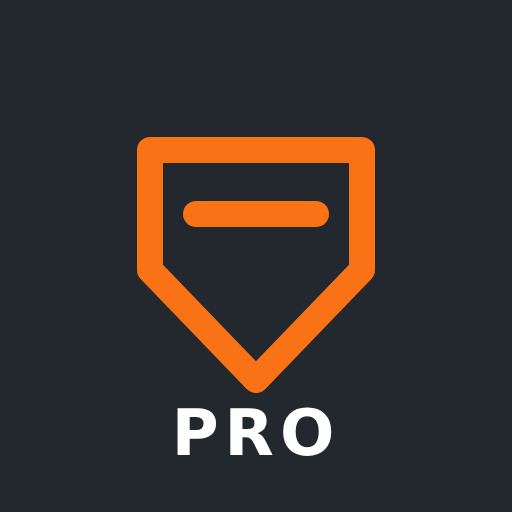
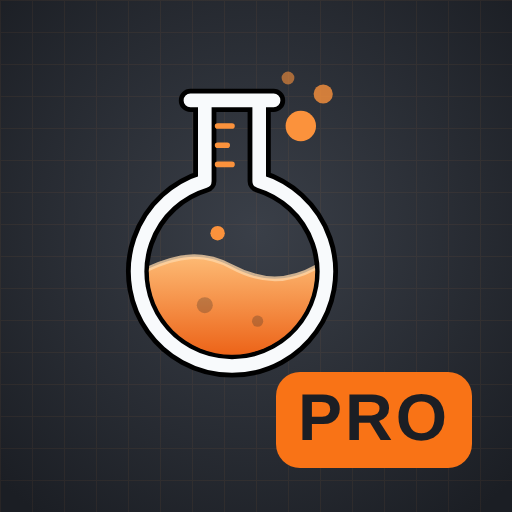
Version 10: neues App-Symbol (Kolben mit PRO) (#10)
Symbole für Homescreen (192/512), Apple (180) und eine eigene
Android-Fassung mit Sicherheitsrand (maskable). Browser-Tab zeigt das
Symbol jetzt auch.

Claude-Session: https://claude.ai/code/session_01PHNf8zyq4wdwEw9eWu2Ss8

Changed region(s): [[0.2188, 0.125, 0.9375, 0.9375]]

diff --git a/index.html b/index.html
@@ -5,6 +5,7 @@
 <meta name="viewport" content="width=device-width, initial-scale=1, viewport-fit=cover">
 <title>Lernlabor Pro</title>
 <link rel="manifest" href="manifest.webmanifest">
+<link rel="icon" type="image/png" sizes="192x192" href="icon-192.png">
 <link rel="apple-touch-icon" href="apple-touch-icon.png">
 <meta name="theme-color" content="#1f2937"><script>try{var m=localStorage.getItem("lernlabor-pro-ansicht")||"hell";if(m!=="geraet")document.documentElement.setAttribute("data-theme",m==="dunkel"?"dark":"light")}catch(e){document.documentElement.setAttribute("data-theme","light")}</script>
 <meta name="apple-mobile-web-app-capable" content="yes">
@@ -1049,7 +1050,7 @@ VIZ.arbg=()=>S.svg(560,200,bx(10,14,170,56,BL,['1. Instanz','Arbeitsgericht'])+S
  bx(10,100,170,56,GR,['Güteverhandlung','(Vorsitzender allein)'])+S.a(180,128,195,128)+bx(195,100,170,56,GR,['Kammertermin','mit 2 ehrenamtl. Richtern'])+S.a(365,128,380,128)+bx(380,100,170,56,GR,['Urteil','oder Vergleich'])+
  S.t(280,186,'1. Instanz: kein Anwaltszwang, jede Seite trägt ihre Anwaltskosten selbst (§ 12a ArbGG)',null,{sz:12,f:'var(--mute)'}),'Instanzen und Ablauf vor dem Arbeitsgericht');
 VIZ.mob=()=>S.svg(560,150,bx(10,40,120,56,YL,['Vorfall','dokumentieren'])+S.a(130,68,150,68)+bx(150,40,120,56,BL,['Beschwerde','§ 84, § 85 BetrVG'])+S.a(270,68,290,68)+bx(290,40,120,56,RD,['Arbeitgeber','handelt (§ 12 AGG)'])+S.a(410,68,430,68)+bx(430,40,120,56,GR,['Nachfassen,','Schutz (§ 16 AGG)'])+S.t(280,130,'Keine Nachteile wegen der Beschwerde',null,{sz:12,f:'var(--mute)'}),'Ablauf bei Belästigung oder Mobbing');
-const NEU='<h3>🆕 Version 9 (14.11.2026)</h3><ul><li>Antworten in Prüfungsaufgaben und „Im Betrieb“ bleiben auf diesem Gerät gespeichert. Aus „Im Betrieb“ führt „‹ Zurück zu Im Betrieb“ zurück.</li><li>Regler mit Formelzeichen. Reglerwerte bleiben erhalten, solange die App offen ist.</li><li>Neu im Menü Lernen unter „Nachschlagen“: Glossar und Formelsammlung.</li><li>Rechenaufgaben: nach einer falschen Antwort „Woran lag es?“ mit typischen Fehlern.</li><li>Einheiten auch in Zeichnungen und Formelbrüchen mit echtem Bruchstrich.</li><li>Schrittleiste zeigt, wo Du gerade bist. Größere Schrift in Zeichnungen am Handy, bessere Kontraste, Startseite mit dem nächsten Schritt zuerst.</li><li>Unter den Reglern stehen „Üben“, „Favorit“ und „Mehr“ in einer Zeile, vier Ergebnisse als zwei mal zwei Kacheln. Alle Texte im Blocksatz.</li></ul><h3>Version 8 (14.11.2026)</h3><ul><li>Bedienung wie im Lernlabor: Jede Ansicht hat eine eigene Adresse. „Zurück“ bleibt in der App, Neuladen öffnet dasselbe Thema, unter „Mehr“ gibt es „Teilen“ und „QR-Code“.</li><li>Wo Skizze und Regler-Zeichnung gleich waren (35 Themen), steht nur noch die bewegte Zeichnung.</li><li>Regler in einer Zeile, Ergebnisse als drei Kacheln nebeneinander.</li><li>Rechenaufgaben: „Antwort prüfen“ oder Enter, Rückfrage bei „1.250“, Hinweis, ob Dein Wert zu groß oder zu klein ist, „💡 Hilfe“ in Schritten, Lösungsweg nach dem zweiten Versuch.</li><li>Menüs „Lernen“ mit „Weiter mit …“, „Üben &amp; Prüfen“ und „Ich“ mit Lernstand, Meine Kurstermine, Tutorial und Sonstiges.</li><li>Startet hell, Dunkel wählbar unter Ich → Sonstiges. Größere Schrift in den Zeichnungen am Handy.</li></ul><h3>Version 7 (14.11.2026)</h3><ul><li>Fachliche Prüfung aller sechs Fachrichtungen: 26 Korrekturen.</li><li>Rechenaufgaben in Mechatronik und Logistik erkennen falsche Ergebnisse jetzt zuverlässig. Zwei Kostenaufgaben in der Organisation nehmen die richtige Lösung jetzt an.</li><li>Lichtvorhang: über 500 mm wird mit K = 1600 mm/s gerechnet. Kühlwasserpumpe mit gemessenen Leistungen statt dritter Potenz.</li><li>Chemie: Druckluftbehälter, pH-Wert, adiabate Verdichtung und Standardzustand präzisiert.</li><li>Kunststoff: Polyreaktionen, Alterung und Recycling ergänzt.</li><li>Themen mit Gesetzen und Normen zeigen den Rechtsstand.</li></ul><h3>Version 6 (14.11.2026)</h3><ul><li>Drei neue Fachrichtungen: Kunststoff &amp; Kautschuk, Mechatronik und Logistik, jeweils mit eigenen Technikthemen, Reglern mit Auftrag, Rechenaufgaben, Situationsaufgaben, Fachgespräch und fünf Aufgaben „Im Betrieb“.</li><li>Für alle: neues Thema „Rüsten verkürzen (SMED)“ in der Organisation.</li><li>Elektrotechnik: neue Regler zum Stromsignal 4 bis 20 mA und zum Performance Level.</li><li>Metall und Elektrotechnik: Hinweis auf die EU-Maschinenverordnung ab 20. Januar 2027.</li></ul><h3>Version 5 (14.11.2026)</h3><ul><li>Chemie: neues Gebiet „Thermodynamik“ mit zehn Themen, von den Gasgesetzen über Sieden und Kondensieren und die Reaktionswärme bis zur Wärmebilanz am Reaktor.</li><li>Neun neue Regler mit Auftrag und 25 neue Rechenaufgaben.</li></ul><h3>Version 4 (14.11.2026)</h3><ul><li>Bedienung wie im Lernlabor: „Thema wechseln“ mit zwei Wischleisten, vier Schritte in einer Zeile, „Üben“ am Schluss.</li><li>Regler mit Zahlenfeld zum Eintippen, Ergebnisse als Kacheln, Knöpfe „Üben“, „Favorit“ und „Mehr“.</li><li>Nachschlagen mit Wichtiges, Grundgleichungen, Verstehen und typische Fehler, Alle Werte und Meine Notiz.</li><li>Einheiten mit echtem Bruchstrich.</li></ul><h3>Version 3 (14.11.2026)</h3><ul><li>Drei Fachrichtungen: Metall, Elektrotechnik und Chemie. Du wählst Deine Fachrichtung auf der Startseite, der Lernstand wird je Fachrichtung getrennt gemerkt.</li><li>Je 14 neue Technikthemen für Elektrotechnik und Chemie, dazu Zusatzthemen in der Organisation.</li><li>Neu unter Prüfen: „Im Betrieb“ mit je fünf mehrstufigen Aufgaben, die Technik, Organisation und Führung verbinden.</li><li>Jedes Thema zeigt jetzt die Kästen Wichtiges, Gleichungen und Typische Fehlerquellen.</li></ul>';
+const NEU='<h3>🆕 Version 10 (14.11.2026)</h3><ul><li>Neues App-Symbol: der Kolben aus dem Lernlabor in Orange mit „PRO“. Auch im Browser-Tab.</li></ul><h3>Version 9 (14.11.2026)</h3><ul><li>Antworten in Prüfungsaufgaben und „Im Betrieb“ bleiben auf diesem Gerät gespeichert. Aus „Im Betrieb“ führt „‹ Zurück zu Im Betrieb“ zurück.</li><li>Regler mit Formelzeichen. Reglerwerte bleiben erhalten, solange die App offen ist.</li><li>Neu im Menü Lernen unter „Nachschlagen“: Glossar und Formelsammlung.</li><li>Rechenaufgaben: nach einer falschen Antwort „Woran lag es?“ mit typischen Fehlern.</li><li>Einheiten auch in Zeichnungen und Formelbrüchen mit echtem Bruchstrich.</li><li>Schrittleiste zeigt, wo Du gerade bist. Größere Schrift in Zeichnungen am Handy, bessere Kontraste, Startseite mit dem nächsten Schritt zuerst.</li><li>Unter den Reglern stehen „Üben“, „Favorit“ und „Mehr“ in einer Zeile, vier Ergebnisse als zwei mal zwei Kacheln. Alle Texte im Blocksatz.</li></ul><h3>Version 8 (14.11.2026)</h3><ul><li>Bedienung wie im Lernlabor: Jede Ansicht hat eine eigene Adresse. „Zurück“ bleibt in der App, Neuladen öffnet dasselbe Thema, unter „Mehr“ gibt es „Teilen“ und „QR-Code“.</li><li>Wo Skizze und Regler-Zeichnung gleich waren (35 Themen), steht nur noch die bewegte Zeichnung.</li><li>Regler in einer Zeile, Ergebnisse als drei Kacheln nebeneinander.</li><li>Rechenaufgaben: „Antwort prüfen“ oder Enter, Rückfrage bei „1.250“, Hinweis, ob Dein Wert zu groß oder zu klein ist, „💡 Hilfe“ in Schritten, Lösungsweg nach dem zweiten Versuch.</li><li>Menüs „Lernen“ mit „Weiter mit …“, „Üben &amp; Prüfen“ und „Ich“ mit Lernstand, Meine Kurstermine, Tutorial und Sonstiges.</li><li>Startet hell, Dunkel wählbar unter Ich → Sonstiges. Größere Schrift in den Zeichnungen am Handy.</li></ul><h3>Version 7 (14.11.2026)</h3><ul><li>Fachliche Prüfung aller sechs Fachrichtungen: 26 Korrekturen.</li><li>Rechenaufgaben in Mechatronik und Logistik erkennen falsche Ergebnisse jetzt zuverlässig. Zwei Kostenaufgaben in der Organisation nehmen die richtige Lösung jetzt an.</li><li>Lichtvorhang: über 500 mm wird mit K = 1600 mm/s gerechnet. Kühlwasserpumpe mit gemessenen Leistungen statt dritter Potenz.</li><li>Chemie: Druckluftbehälter, pH-Wert, adiabate Verdichtung und Standardzustand präzisiert.</li><li>Kunststoff: Polyreaktionen, Alterung und Recycling ergänzt.</li><li>Themen mit Gesetzen und Normen zeigen den Rechtsstand.</li></ul><h3>Version 6 (14.11.2026)</h3><ul><li>Drei neue Fachrichtungen: Kunststoff &amp; Kautschuk, Mechatronik und Logistik, jeweils mit eigenen Technikthemen, Reglern mit Auftrag, Rechenaufgaben, Situationsaufgaben, Fachgespräch und fünf Aufgaben „Im Betrieb“.</li><li>Für alle: neues Thema „Rüsten verkürzen (SMED)“ in der Organisation.</li><li>Elektrotechnik: neue Regler zum Stromsignal 4 bis 20 mA und zum Performance Level.</li><li>Metall und Elektrotechnik: Hinweis auf die EU-Maschinenverordnung ab 20. Januar 2027.</li></ul><h3>Version 5 (14.11.2026)</h3><ul><li>Chemie: neues Gebiet „Thermodynamik“ mit zehn Themen, von den Gasgesetzen über Sieden und Kondensieren und die Reaktionswärme bis zur Wärmebilanz am Reaktor.</li><li>Neun neue Regler mit Auftrag und 25 neue Rechenaufgaben.</li></ul><h3>Version 4 (14.11.2026)</h3><ul><li>Bedienung wie im Lernlabor: „Thema wechseln“ mit zwei Wischleisten, vier Schritte in einer Zeile, „Üben“ am Schluss.</li><li>Regler mit Zahlenfeld zum Eintippen, Ergebnisse als Kacheln, Knöpfe „Üben“, „Favorit“ und „Mehr“.</li><li>Nachschlagen mit Wichtiges, Grundgleichungen, Verstehen und typische Fehler, Alle Werte und Meine Notiz.</li><li>Einheiten mit echtem Bruchstrich.</li></ul><h3>Version 3 (14.11.2026)</h3><ul><li>Drei Fachrichtungen: Metall, Elektrotechnik und Chemie. Du wählst Deine Fachrichtung auf der Startseite, der Lernstand wird je Fachrichtung getrennt gemerkt.</li><li>Je 14 neue Technikthemen für Elektrotechnik und Chemie, dazu Zusatzthemen in der Organisation.</li><li>Neu unter Prüfen: „Im Betrieb“ mit je fünf mehrstufigen Aufgaben, die Technik, Organisation und Führung verbinden.</li><li>Jedes Thema zeigt jetzt die Kästen Wichtiges, Gleichungen und Typische Fehlerquellen.</li></ul>';
 const ABK=[['AEVO','Ausbilder-Eignungsverordnung'],['AGG','Allgemeines Gleichbehandlungsgesetz'],['ArbGG','Arbeitsgerichtsgesetz'],['ArbSchG','Arbeitsschutzgesetz'],['ArbZG','Arbeitszeitgesetz'],['ASiG','Arbeitssicherheitsgesetz'],['BAG','Bundesarbeitsgericht'],['BBiG','Berufsbildungsgesetz'],['BDSG','Bundesdatenschutzgesetz'],['BEEG','Bundeselterngeld- und Elternzeitgesetz'],['BetrSichV','Betriebssicherheitsverordnung'],['BetrVG','Betriebsverfassungsgesetz'],['BGB','Bürgerliches Gesetzbuch'],['BImSchG','Bundes-Immissionsschutzgesetz'],['BUrlG','Bundesurlaubsgesetz'],['DSGVO','Datenschutz-Grundverordnung'],['EFZG','Entgeltfortzahlungsgesetz'],['EuGH','Europäischer Gerichtshof'],['GefStoffV','Gefahrstoffverordnung'],['GewO','Gewerbeordnung'],['HGB','Handelsgesetzbuch'],['HinSchG','Hinweisgeberschutzgesetz'],['JArbSchG','Jugendarbeitsschutzgesetz'],['KrWG','Kreislaufwirtschaftsgesetz'],['KSchG','Kündigungsschutzgesetz'],['MiLoG','Mindestlohngesetz'],['MuSchG','Mutterschutzgesetz'],['NachwG','Nachweisgesetz'],['ProdHaftG','Produkthaftungsgesetz'],['SGB III / VII / IX','Sozialgesetzbuch: Arbeitsförderung / Unfallversicherung / Rehabilitation und Teilhabe'],['TVG','Tarifvertragsgesetz'],['TzBfG','Teilzeit- und Befristungsgesetz'],['UStG','Umsatzsteuergesetz'],['WHG','Wasserhaushaltsgesetz']];
 
 /* Neue Rechenaufgaben */
@@ -5376,7 +5377,7 @@ home=function(v){home5(v);
  if(warn)v.append(warn);
 };
 
-{const vf=document.querySelector('#view+p.sub');if(vf){vf.className='ftr';vf.removeAttribute('style');vf.innerHTML='🔒 Dein Lernstand bleibt auf Deinem Gerät · keine Konten · kein Tracking<br>© 2026 Dr. rer. nat. Markus Baum · Version 9 · Eigene Aufgaben, keine Nachbildung von IHK-Prüfungen · Weitergabe nur mit Erlaubnis'}}
+{const vf=document.querySelector('#view+p.sub');if(vf){vf.className='ftr';vf.removeAttribute('style');vf.innerHTML='🔒 Dein Lernstand bleibt auf Deinem Gerät · keine Konten · kein Tracking<br>© 2026 Dr. rer. nat. Markus Baum · Version 10 · Eigene Aufgaben, keine Nachbildung von IHK-Prüfungen · Weitergabe nur mit Erlaubnis'}}
 /* Menüband wie im Lernlabor: Start · Lernen · Üben & Prüfen · Ich */
 const nav5=nav;
 nav=function(){nav5();const bs=document.querySelectorAll('#fs button');if(bs[1]&&!FACH.includes(tab)){const s=bs[1].querySelectorAll('span');if(s[1])s[1].textContent='Lernen'}if(bs[2]){const s=bs[2].querySelectorAll('span');if(s[1])s[1].textContent='Üben & Prüfen'}};
@@ -8439,7 +8440,7 @@ window.betrieb=function(v){const bn={tec:TKZ,org:'Organisation',fp:'Führung'};
 /* Fußzeile wie im Lernlabor: Impressum, Datenschutz, Hinweise */
 {const vf=document.querySelector('.ftr');if(vf){const OW='Dr. rer. nat. Markus Baum',ML=['baum.ma91','yahoo.de'].join('@'),AD='Am alten Schlachthof 2<br>93053 Regensburg';
  const ft=document.createElement('footer');ft.id='ft';ft.className='ftr';
- ft.innerHTML='<nav class="ftl" aria-label="Impressum und Datenschutz"><button type="button" data-ft="Impressum">Impressum</button><span aria-hidden="true">·</span><button type="button" data-ft="Datenschutz">Datenschutz</button><span aria-hidden="true">·</span><button type="button" data-ft="Hinweise">Hinweise</button></nav><p class="ftk">🔒 Dein Lernstand bleibt auf Deinem Gerät · keine Konten · kein Tracking</p><p class="ft-c">© 2026 '+OW+' · Version 9 · Weitergabe nur mit Erlaubnis</p>'
+ ft.innerHTML='<nav class="ftl" aria-label="Impressum und Datenschutz"><button type="button" data-ft="Impressum">Impressum</button><span aria-hidden="true">·</span><button type="button" data-ft="Datenschutz">Datenschutz</button><span aria-hidden="true">·</span><button type="button" data-ft="Hinweise">Hinweise</button></nav><p class="ftk">🔒 Dein Lernstand bleibt auf Deinem Gerät · keine Konten · kein Tracking</p><p class="ft-c">© 2026 '+OW+' · Version 10 · Weitergabe nur mit Erlaubnis</p>'
  +'<details><summary>Hinweise</summary><p>Alle Aufgaben sind eigene Aufgaben und keine IHK-Prüfungsaufgaben. Ich prüfe die Inhalte sorgfältig, Fehler sind trotzdem möglich. Normwerte, Grenzwerte und Fristen sind Beispiel- und Richtwerte zum Üben, maßgeblich sind die aktuellen Normen, Gesetze, Tabellenbücher und die Angaben Deiner IHK. Lernlabor Pro ersetzt keinen Lehrgang und garantiert keinen Prüfungserfolg.</p></details>'
  +'<details><summary>Impressum</summary><p>Angaben gemäß § 5 DDG</p><p>'+OW+'<br>'+AD+'</p><p>E-Mail: '+ML+'</p><p>Lernlabor Pro ist ein privates Lernangebot. Es steht in keiner Verbindung zur IHK oder zum DIHK.</p><p><b>Urheberrecht:</b> Aufgaben, Texte, Grafiken und Programm von Lernlabor Pro sind urheberrechtlich geschützt. Du darfst sie für Dein eigenes Lernen nutzen. Kopieren, Weitergeben oder Veröffentlichen, auch in Teilen, ist nur mit meiner schriftlichen Erlaubnis gestattet.</p></details>'
  +'<details><summary>Datenschutz</summary><p>Verantwortlich: '+OW+', '+AD.replace('<br>',', ')+', '+ML+'</p><p><b>Dein Lernstand:</b> Lernlabor Pro speichert Deinen Lernstand, Deine Favoriten und Deine Notizen nur in Deinem Browser auf Deinem Gerät. Sie werden nicht automatisch an mich oder andere übertragen. Du kannst sie unter „Ich“ exportieren oder löschen.</p><p><b>Hosting:</b> Die Seite liegt bei GitHub Pages (GitHub Inc., USA). Beim Aufruf verarbeitet GitHub technisch nötige Zugriffsdaten, zum Beispiel Deine IP-Adresse, um die Seite auszuliefern und vor Angriffen zu schützen. Rechtsgrundlage ist Art. 6 Abs. 1 lit. f DSGVO (berechtigtes Interesse an einer sicheren Bereitstellung). Die Übermittlung in die USA stützt sich auf das EU-US Data Privacy Framework.</p><p>Keine Cookies, kein Tracking, keine KI durch diese Seite.</p><p><b>Deine Rechte:</b> Auskunft, Berichtigung, Löschung, Einschränkung, Widerspruch und Beschwerde bei einer Datenschutz-Aufsichtsbehörde (in Bayern für Private: Bayerisches Landesamt für Datenschutzaufsicht).</p></details>';
